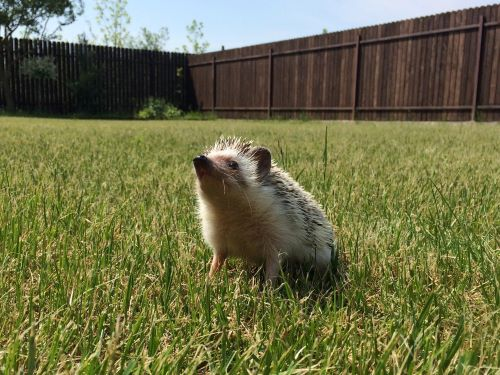
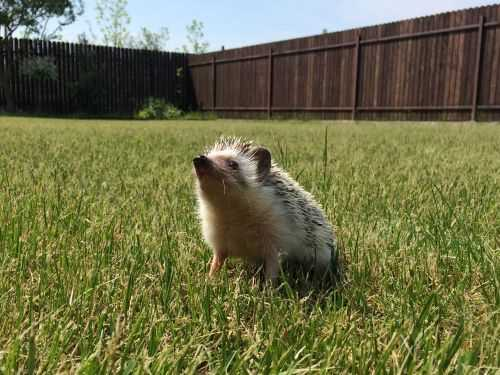
zmieniono rozmiar zdjęć

diff --git a/index.html b/index.html
@@ -10,7 +10,7 @@
   </head>
   <body>
     <header>
-      <img id="kot" src="zdjecia/kot.png" alt="kot maine coon" />
+      <img id="kot" src="zdjecia/kot.jpg" alt="kot maine coon" />
       <h1>Lorem ipsum</h1>
     </header>
     <nav id="mynav">
